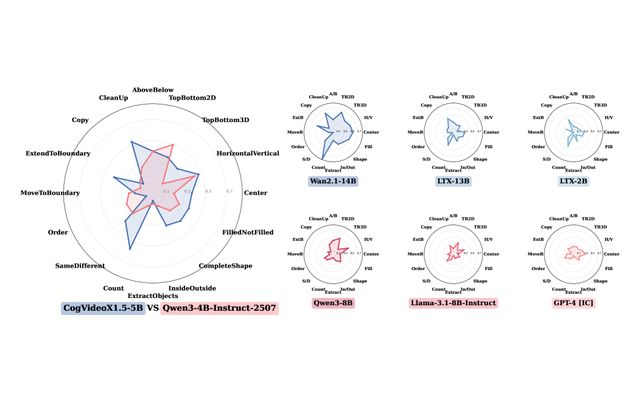
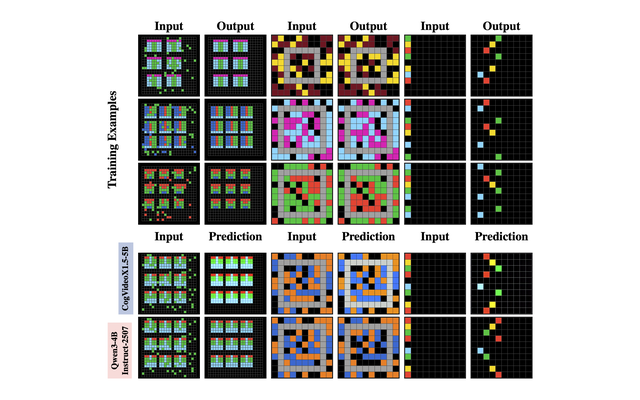
Update paper figures and ARC note

diff --git a/styles.css b/styles.css
@@ -129,9 +129,14 @@ a:visited {
   font-size: 13px;
 }
 
+.papers .paper-note {
+  margin-top: 3px;
+  font-size: 12px;
+}
+
 .paper-entry {
   display: grid;
-  grid-template-columns: 24px 142px 1fr;
+  grid-template-columns: 24px 170px 1fr;
   gap: 12px;
   align-items: start;
 }
@@ -146,7 +151,7 @@ a:visited {
 .paper-figure {
   display: block;
   grid-column: 2;
-  width: 142px;
+  width: 170px;
   aspect-ratio: 8 / 5;
   padding: 3px;
   background: #ffffff;
@@ -222,12 +227,12 @@ footer p {
   }
 
   .paper-entry {
-    grid-template-columns: 22px 96px 1fr;
+    grid-template-columns: 22px 110px 1fr;
     gap: 10px;
   }
 
   .paper-figure {
-    width: 96px;
+    width: 110px;
   }
 }
 

diff --git a/index.html b/index.html
@@ -67,11 +67,12 @@
         <li>
           <div class="paper-entry">
             <a class="paper-figure" href="https://arxiv.org/abs/2510.24448">
-              <img src="assets/papers/visual-intelligence.png" alt="Radar plot figure for Rethinking Visual Intelligence" loading="lazy">
+              <img src="assets/papers/visual-intelligence.png" alt="ARC-style qualitative figure for Rethinking Visual Intelligence" loading="lazy">
             </a>
             <div class="paper-copy">
               <a href="https://arxiv.org/abs/2510.24448">Rethinking Visual Intelligence: Insights from Video Pretraining</a>
               <span>Pablo Acuaviva, Aram Davtyan, Mariam Hassan, Sebastian Stapf, Ahmad Rahimi, Alexandre Alahi, Paolo Favaro. ICML, 2026.</span>
+              <span class="paper-note"><a href="https://arcprize.org/competitions/2025">ARC Prize 2025 (Honorable Mention)</a></span>
             </div>
           </div>
         </li>
@@ -89,7 +90,7 @@
         <li>
           <div class="paper-entry">
             <a class="paper-figure" href="https://arxiv.org/abs/2311.17504">
-              <img src="assets/papers/pvit.png" alt="Architecture figure for PViT-6D" loading="lazy">
+              <img src="assets/papers/pvit.png" alt="PViT-6D paper and architecture figure" loading="lazy">
             </a>
             <div class="paper-copy">
               <a href="https://arxiv.org/abs/2311.17504">PViT-6D: Overclocking Vision Transformers for 6D Pose Estimation</a>